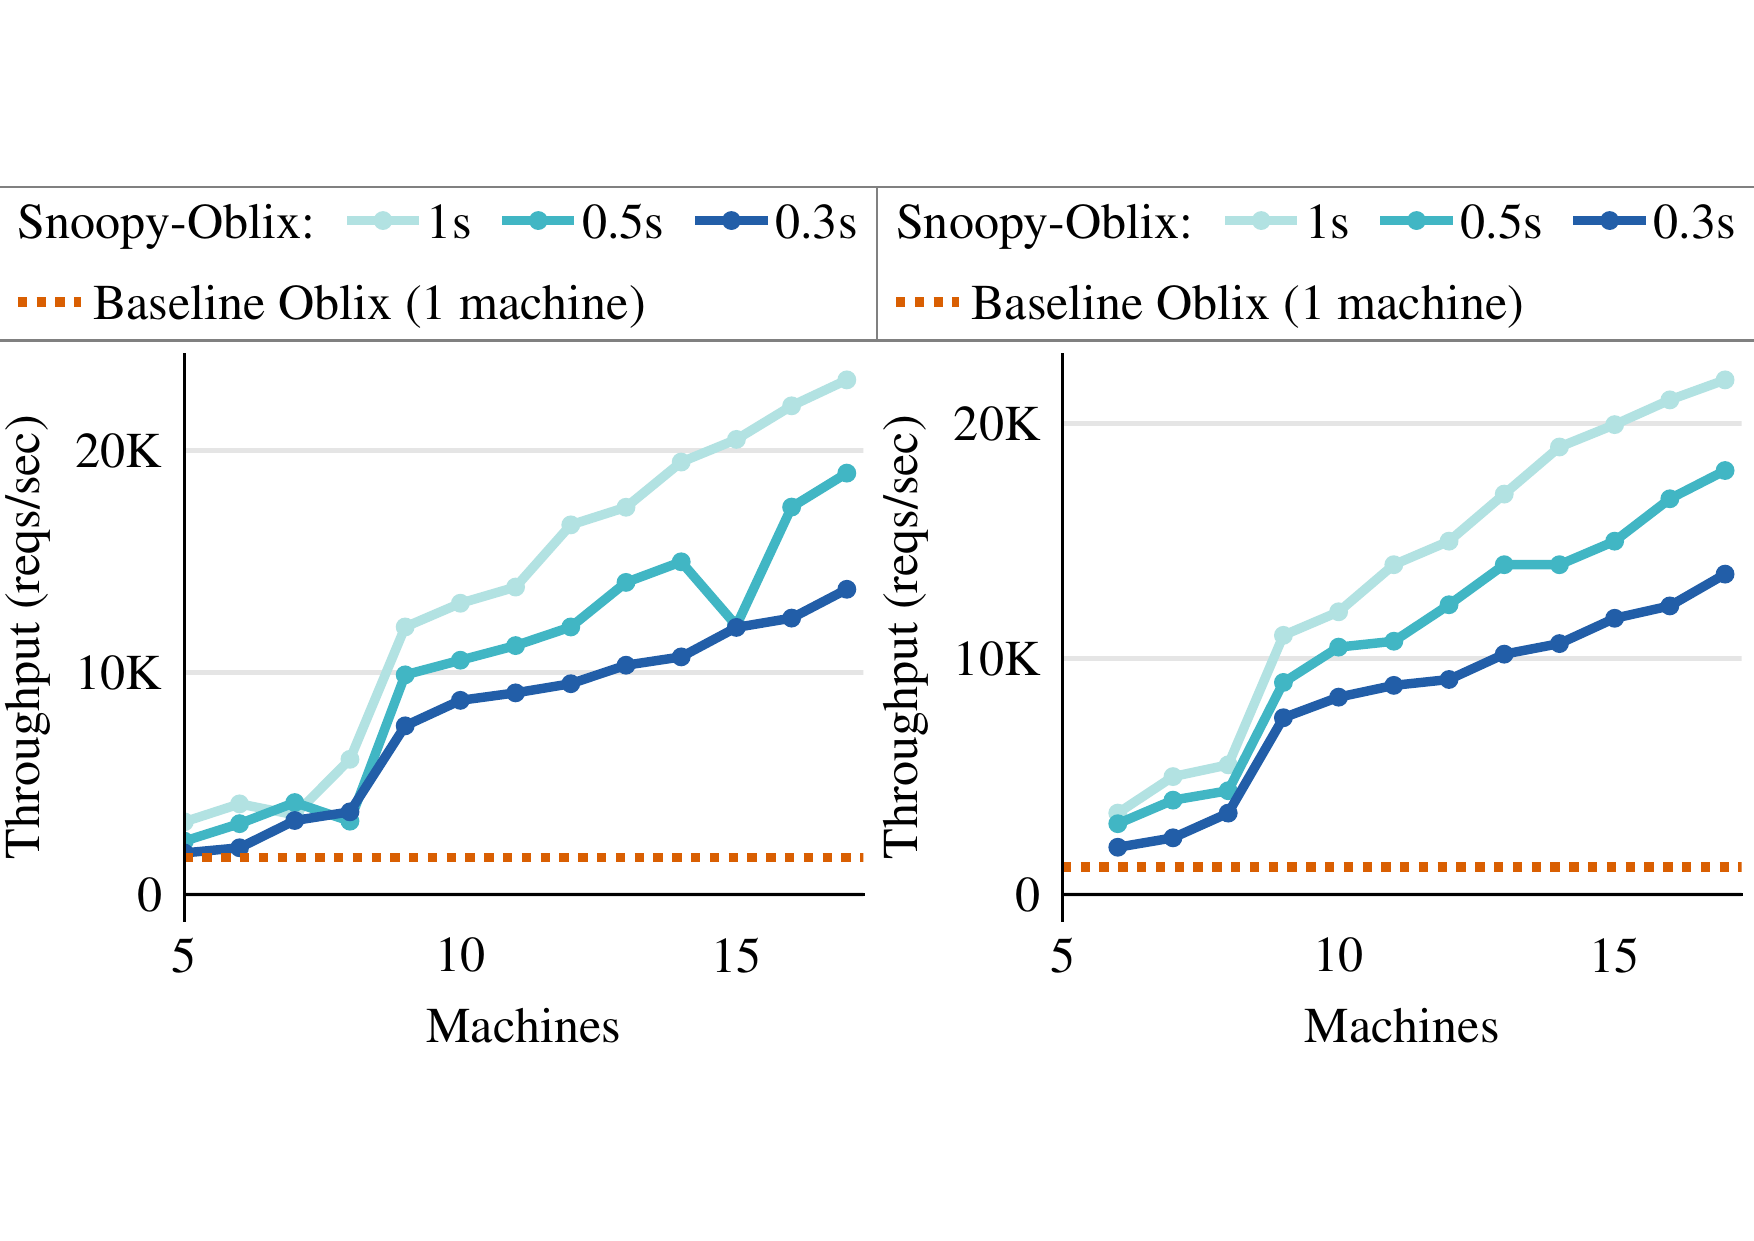
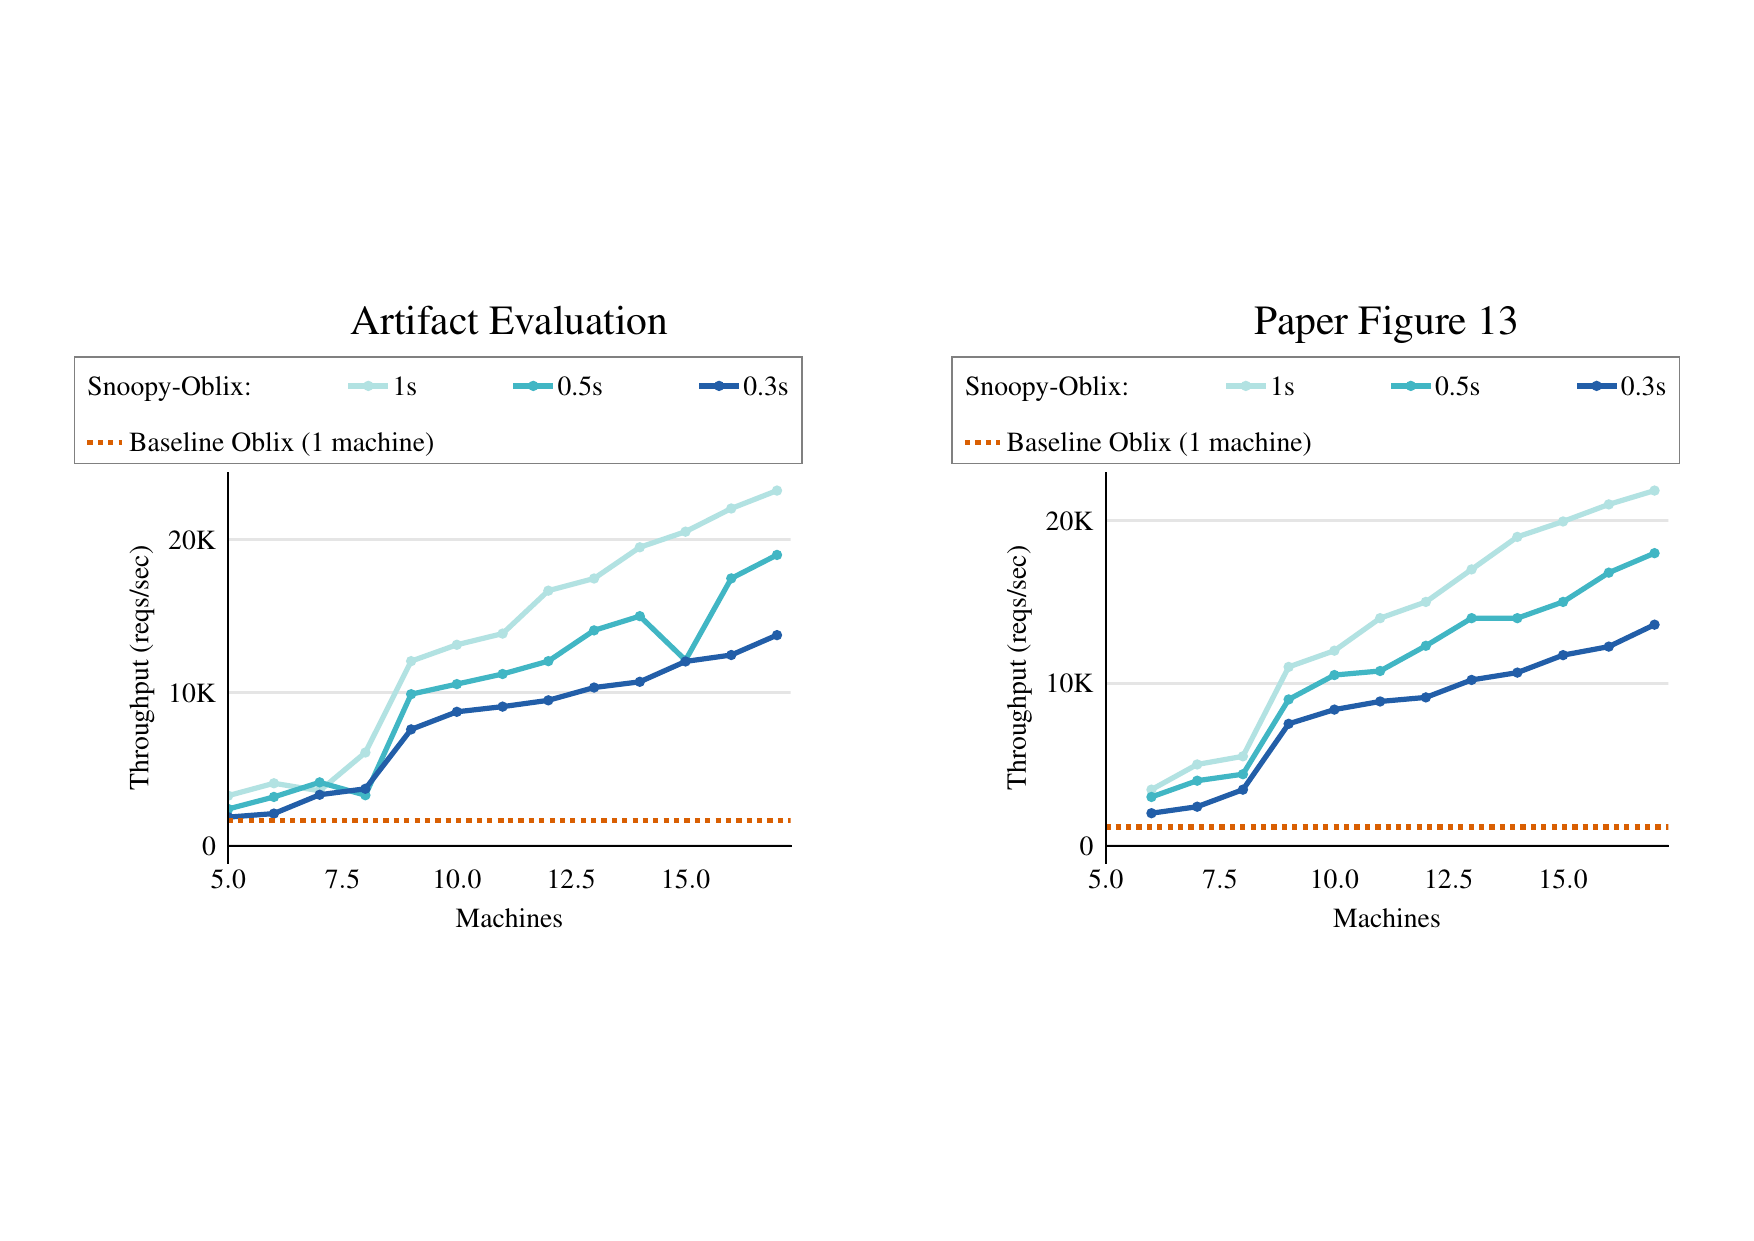
tweak fig13

diff --git a/scripts/fig/scooby_oblix.py b/scripts/fig/scooby_oblix.py
@@ -116,6 +116,12 @@ fig.patches.extend([plt.Rectangle((0.015,0.82), 0.97, 0.17,
 
 remove_chart_junk(plt,ax,grid=True)
 
-custom_style.save_fig(fig, out_name, [2, 2])
+if args.title:
+    plt.title(args.title, y=1.3)
+    #ax.set_title(args.title)
+if args.large:
+    custom_style.save_fig(fig, out_name, [3, 2.5], pad=0.3)
+else:
+    custom_style.save_fig(fig, out_name, [2, 2])
 plt.savefig("temp.pdf")
 
